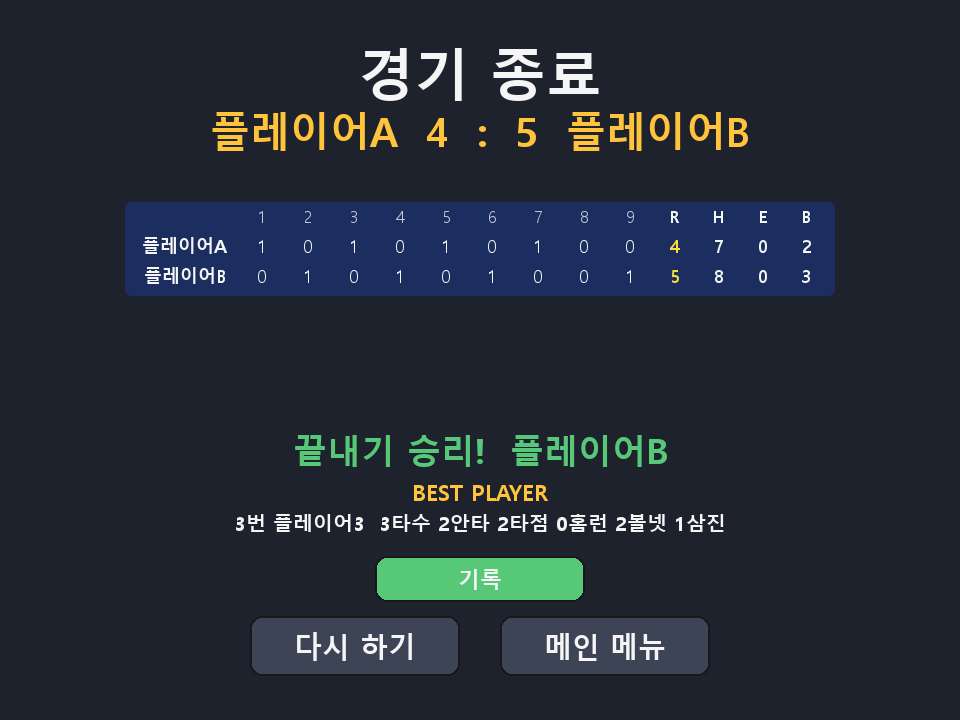
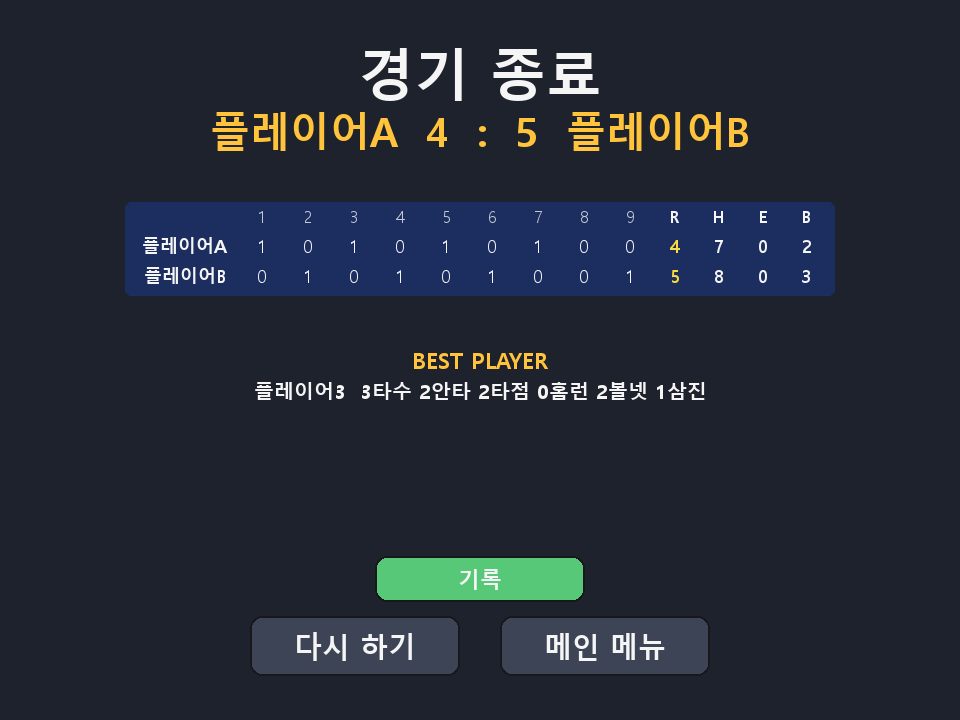
2인 모드 구종 선택 키 교체(홈 8/9/0, 원정 1/2/3), 경기종료 화면 정리
- 홈팀 수비 시 8/9/0, 원정팀 수비 시 1/2/3으로 구종 선택 키 교체(안내 문구·README 동기화)
- 2인 경기종료 화면에서 승리팀 문구 삭제, BEST PLAYER 타순 표시 삭제 및 위치 상향
- 1인 모드 경기종료·전광판 UI 정리(문구 삭제, 점수 크기·위치 조정)에 맞춰 스크린샷 갱신

Changed region(s): [[0.25, 0.5806, 0.75, 0.7639], [0.25, 0.4889, 0.75, 0.5806], [0.3125, 0.5806, 0.5, 0.6722]]

diff --git a/baseball/app.py b/baseball/app.py
@@ -99,8 +99,8 @@ HELP_LINES = [
     ("head", "게임 모드"),
     ("body", "· 1인 게임 (타격 챌린지): 혼자 타격만 합니다, CPU가 랜덤 구종·구속으로 투구"),
     ("body", "· 2인 게임: 한 명은 투수(구종 선택), 한 명은 타자(스페이스바 타격)"),
-    ("body", "  플레이어A(원정·파랑) 수비: [8] 패스트볼 [9] 슬라이더 [0] 커브"),
-    ("body", "  플레이어B(홈·빨강) 수비: [1] 패스트볼 [2] 슬라이더 [3] 커브"),
+    ("body", "  플레이어A(원정·빨강) 수비: [1] 패스트볼 [2] 슬라이더 [3] 커브"),
+    ("body", "  플레이어B(홈·파랑) 수비: [8] 패스트볼 [9] 슬라이더 [0] 커브"),
     ("body", "  공수교대 시 역할·유니폼 색이 바뀝니다"),
     ("body", "· 경기 전 라인업 화면에서 팀·선수 이름, 좌타/우타를 설정할 수 있습니다"),
     ("body", "  2인 기본 팀 이름: 플레이어A(원정) / 플레이어B(홈)"),
@@ -181,7 +181,7 @@ HELP_LINES = [
     ("gap", ""),
     ("head", "조작"),
     ("body", "· 타격: 스페이스바"),
-    ("body", "· 구종 선택(2인): A팀 8/9/0, B팀 1/2/3"),
+    ("body", "· 구종 선택(2인): A팀 1/2/3, B팀 8/9/0"),
     ("body", "· 일시정지: 우하단 버튼 또는 ESC → 계속하기 / 그만하기"),
     ("body", "· 게임 설명 스크롤: 마우스 휠 또는 ↑↓"),
     ("body", "· 메인 메뉴 「개발정보」에서 버전·개발자 정보 확인"),
@@ -692,7 +692,7 @@ class PlayScene:
 
     def _pitch_keys(self):
         """2인 모드 수비 팀별 구종 선택 키 (A=8/9/0, B=1/2/3)."""
-        if self.game.defending_team == 0:
+        if self.game.defending_team == 1:
             return PITCH_KEYS_A
         return PITCH_KEYS_B
 
@@ -703,8 +703,8 @@ class PlayScene:
             if key in keys:
                 return keys[key]
         if text:
-            ch = text.lower() if self.game.defending_team == 0 else text
-            letters = PITCH_LETTER_A if self.game.defending_team == 0 else PITCH_LETTER_B
+            ch = text.lower() if self.game.defending_team == 1 else text
+            letters = PITCH_LETTER_A if self.game.defending_team == 1 else PITCH_LETTER_B
             return letters.get(ch)
         return None
 
@@ -1730,7 +1730,7 @@ class PlayScene:
                       C.ACCENT2)
         self.btn_pitcher_sub.draw(s)
         draw_text(s, "구종을 선택하세요", 16, x + 12, y + 82, C.LIGHT_GRAY)
-        if g.defending_team == 0:
+        if g.defending_team == 1:
             labels = ("[8] 패스트볼", "[9] 슬라이더", "[0] 커브")
         else:
             labels = ("[1] 패스트볼", "[2] 슬라이더", "[3] 커브")
@@ -1998,22 +1998,11 @@ class GameOverScene:
                 self._draw_final_line(s, 410)
             else:
                 self._draw_final_line(s, 230)
-                if g.walk_off and g.score[1] > g.score[0]:
-                    msg = f"끝내기 승리!  {g.team_names[1]}"
-                    col = C.GOOD
-                elif g.score[0] > g.score[1]:
-                    msg = f"{g.team_names[0]} 승리!"
-                    col = C.GOOD
-                else:
-                    msg = f"{g.team_names[1]} 승리!"
-                    col = C.GOOD
-                draw_text(s, msg, 34, C.WIDTH // 2, 450,
-                          col, center=True, bold=True)
                 mvp = g.pick_mvp()
                 if mvp:
-                    draw_text(s, "BEST PLAYER", 22, C.WIDTH // 2, 492,
+                    draw_text(s, "BEST PLAYER", 22, C.WIDTH // 2, 360,
                               C.ACCENT2, center=True, bold=True)
-                    draw_text(s, mvp["line"], 20, C.WIDTH // 2, 522,
+                    draw_text(s, mvp["line"], 20, C.WIDTH // 2, 390,
                               C.WHITE, center=True, bold=True)
         for b in (self.btn_again, self.btn_menu):
             b.draw(s)

diff --git a/baseball/gamestate.py b/baseball/gamestate.py
@@ -173,7 +173,7 @@ class LiveGame:
         """팀·타순별 타격 기록 문자열 (MVP 등)."""
         if name is None:
             name = self.lineups[team_idx][slot]
-        return f"{slot + 1}번 {name}  {self.format_batter_stats_compact(team_idx, slot)}"
+        return f"{name}  {self.format_batter_stats_compact(team_idx, slot)}"
 
     def current_batter_stats_compact(self):
         """현재 타석 타자의 팀별 기록(숫자만)."""
